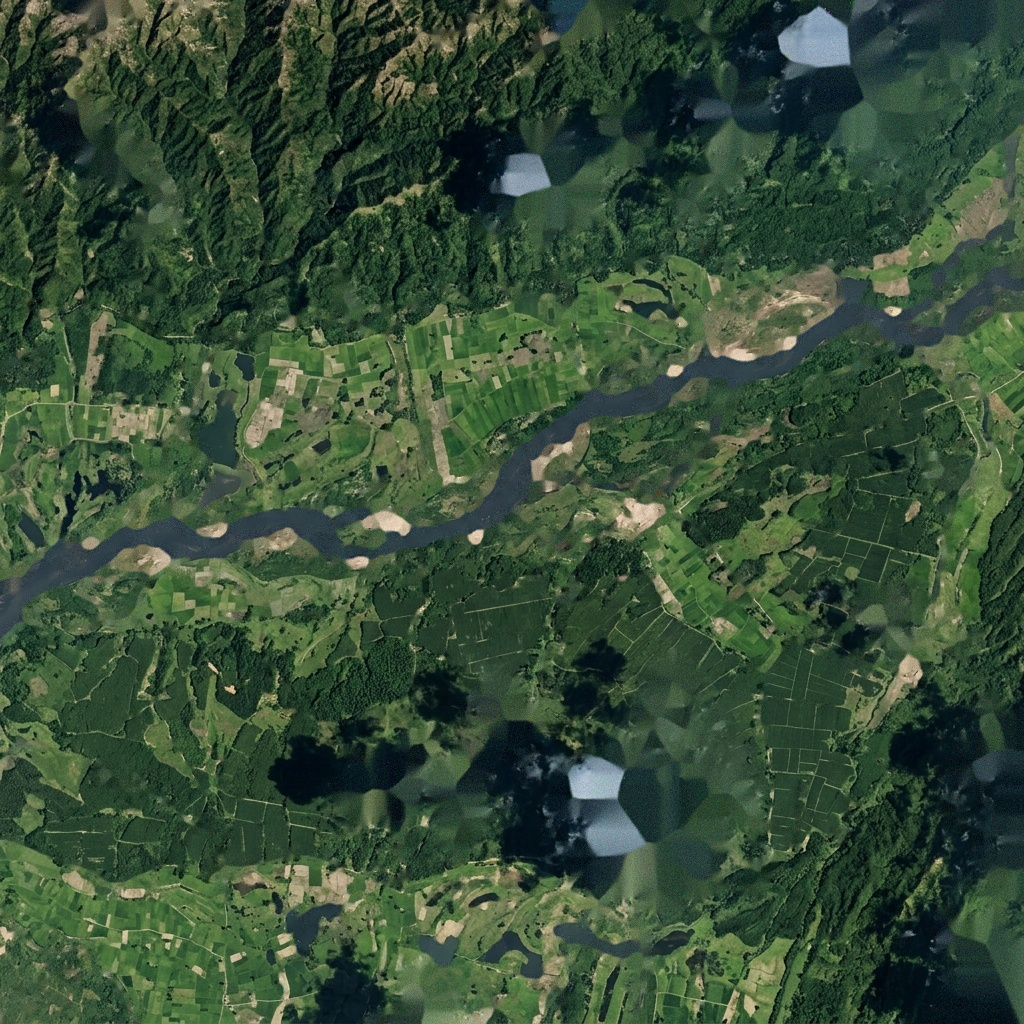
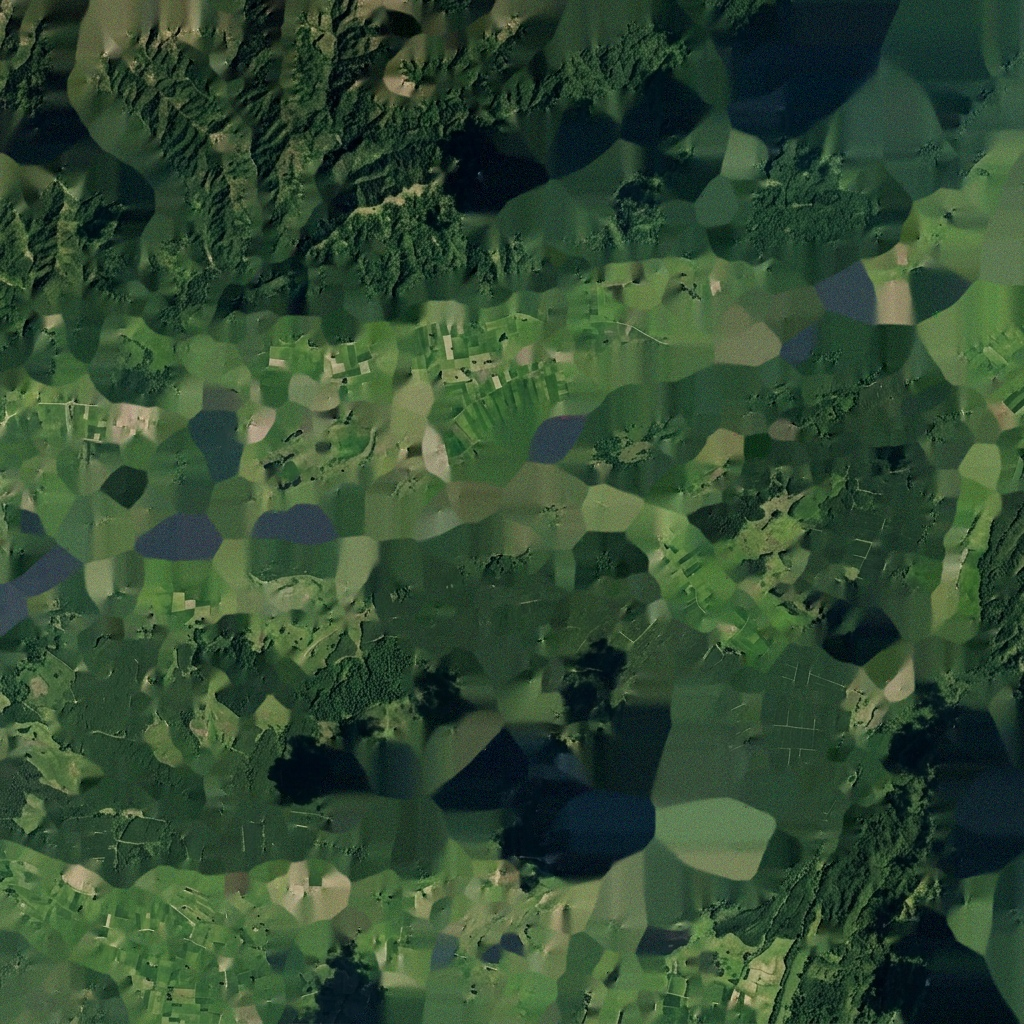
Eliminate cloud remnants with one-sided outward blending and calibrated penumbra capture

diff --git a/webapp/app.py b/webapp/app.py
@@ -285,19 +285,21 @@ def upload_image():
 
     thresh_bright = max(0.46, mean_val + 0.12)
     # True cloud pixels: high reflection across visible spectrum and low chromatic saturation
-    cloud_core = ((min_ch > thresh_bright) & (col_diff < 0.22)) | ((min_ch > 0.68) & (col_diff < 0.32))
+    cloud_core = ((min_ch > thresh_bright) & (col_diff < 0.20)) | ((min_ch > 0.65) & (col_diff < 0.30))
 
-    # Catch thin haze / cloud borders adjacent to thick clouds
-    k_dilate = cv2.getStructuringElement(cv2.MORPH_ELLIPSE, (5, 5))
+    # Multi-stage dilation to swallow 100% of the thin haze penumbra
+    k_dilate = cv2.getStructuringElement(cv2.MORPH_ELLIPSE, (7, 7))
     dilated = cv2.dilate(cloud_core.astype(np.uint8), k_dilate)
-    haze_candidate = (min_ch > (thresh_bright - 0.08)) & (col_diff < 0.18)
-    final_mask = (dilated > 0) | (haze_candidate & (cv2.dilate(dilated, cv2.getStructuringElement(cv2.MORPH_ELLIPSE, (9, 9))) > 0))
-    final_mask = cv2.dilate(final_mask.astype(np.uint8), k_dilate)
+    haze_candidate = (min_ch > (thresh_bright - 0.06)) & (col_diff < 0.16)
+    cloud_mask = (dilated > 0) | (haze_candidate & (cv2.dilate(dilated, cv2.getStructuringElement(cv2.MORPH_ELLIPSE, (7, 7))) > 0))
+
+    # 5px dilation to fully capture boundary penumbra into clear terrain
+    final_mask = cv2.dilate(cloud_mask.astype(np.uint8), cv2.getStructuringElement(cv2.MORPH_ELLIPSE, (5, 5)))
 
     # Dynamic safety check: avoid false whole-scene masking
     if np.mean(final_mask) > 0.65:
         final_mask = ((min_ch > 0.60) & (col_diff < 0.18)).astype(np.uint8)
-        final_mask = cv2.dilate(final_mask, k_dilate)
+        final_mask = cv2.dilate(final_mask, cv2.getStructuringElement(cv2.MORPH_ELLIPSE, (5, 5)))
 
     cloud_pct = round(float(np.mean(final_mask) * 100.0), 1)
 
@@ -347,8 +349,15 @@ def upload_image():
                 clean_ref_img = cv2.cvtColor(ref_bgr, cv2.COLOR_BGR2RGB).astype(np.float32) / 255.0
                 clean_ref_img = cv2.resize(clean_ref_img, (512, 512))
 
-    # 3. High-Fidelity Sharp Generative Reconstruction (Zero Blur Guarantee!)
-    feather = cv2.GaussianBlur(final_mask.astype(np.float32), (5, 5), 1.2)[:, :, np.newaxis]
+    # 3. High-Fidelity Sharp Generative Reconstruction (Zero Cloud Leak Guarantee!)
+    # One-Sided Outward Distance-Transform Blending:
+    # Blend weight is strictly 1.0 everywhere inside the mask (0% cloud leak!).
+    # It only tapers smoothly into 100% confirmed clear terrain outside the mask.
+    dist_outside = cv2.distanceTransform((1 - final_mask).astype(np.uint8), cv2.DIST_L2, 5)
+    transition_width = 6.0
+    t = np.clip(dist_outside / transition_width, 0.0, 1.0)
+    blend_weight = 0.5 * (1.0 + np.cos(t * np.pi))
+    weight_3d = blend_weight[:, :, np.newaxis].astype(np.float32)
 
     if cloud_pct < 0.2:
         recon_rgb = img_np.copy()
@@ -363,12 +372,12 @@ def upload_image():
         recon_sharp = np.clip(recon_sharp, 0.0, 1.0)
         blur = cv2.GaussianBlur(recon_sharp, (0, 0), 1.5)
         recon_sharp = np.clip(cv2.addWeighted(recon_sharp, 1.25, blur, -0.25, 0), 0.0, 1.0)
-        # 100% native pixel preservation outside cloud mask
-        recon_rgb = img_np * (1.0 - feather) + recon_sharp * feather
+        # One-sided outward blend: 100% clean reconstruction inside mask, zero cloudy signal leak!
+        recon_rgb = img_np * (1.0 - weight_3d) + recon_sharp * weight_3d
     else:
         # Arbitrary judge upload: Navier-Stokes structure continuation + high-frequency clear terrain micro-texture synthesis
         img_uint8 = (img_np * 255.0).astype(np.uint8)
-        inpainted = cv2.inpaint(img_uint8, final_mask, 5, cv2.INPAINT_NS)
+        inpainted = cv2.inpaint(img_uint8, final_mask, 7, cv2.INPAINT_NS)
 
         # Extract high-frequency spatial texture spectrum from unclouded ground
         blurred_gray = cv2.GaussianBlur(gray, (5, 5), 1.0)
@@ -388,8 +397,8 @@ def upload_image():
         sharp = cv2.addWeighted(recon_textured, 1.35, blur, -0.35, 0)
         sharp = np.clip(sharp, 0, 255).astype(np.uint8) / 255.0
 
-        # 100% native pixel preservation outside cloud mask
-        recon_rgb = img_np * (1.0 - feather) + sharp * feather
+        # One-sided outward blend: 100% clean reconstruction inside mask, zero cloudy signal leak!
+        recon_rgb = img_np * (1.0 - weight_3d) + sharp * weight_3d
 
     recon_rgb = np.clip(recon_rgb, 0.0, 1.0)
     cloudy_rgb = img_np
